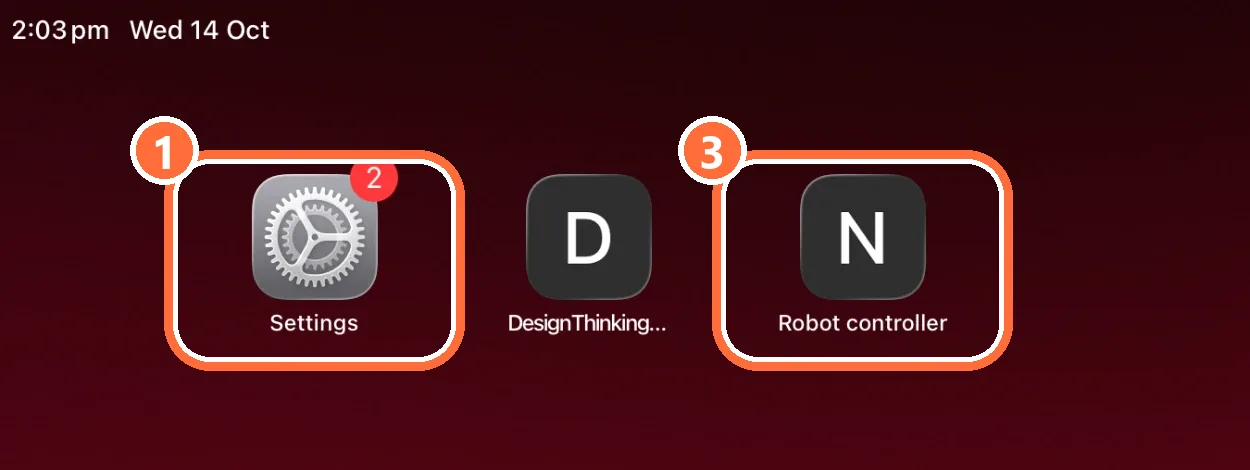
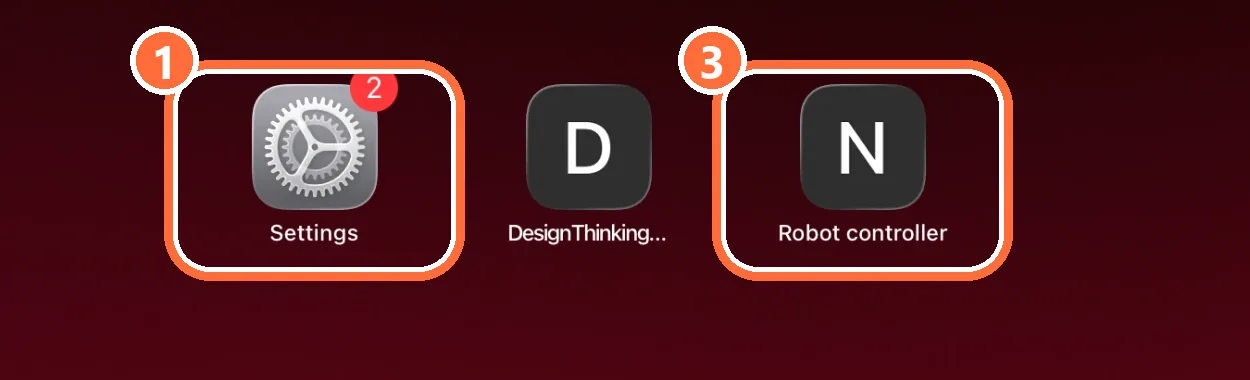
Arm 04/05: crop the time and date off the iPad screenshot

Changed region(s): [[0.4056, 0.0579, 0.8112, 0.7237], [0.0, 0.0289, 0.3744, 0.8105], [0.5616, 0.6368, 0.8112, 0.8105]]

diff --git a/arm-instructions.html b/arm-instructions.html
@@ -353,7 +353,7 @@
       <h1>04/05</h1>
       <h2>Connect your iPad to the arm</h2>
 
-      <img src="ipad-home-screen.webp" loading="lazy" decoding="async" width="1250" height="470"
+      <img src="ipad-home-screen.webp" loading="lazy" decoding="async" width="1250" height="380"
         alt="The iPad home screen with the Settings app marked 1 and the Robot controller app marked 3">
 
       <ol class="steps">
